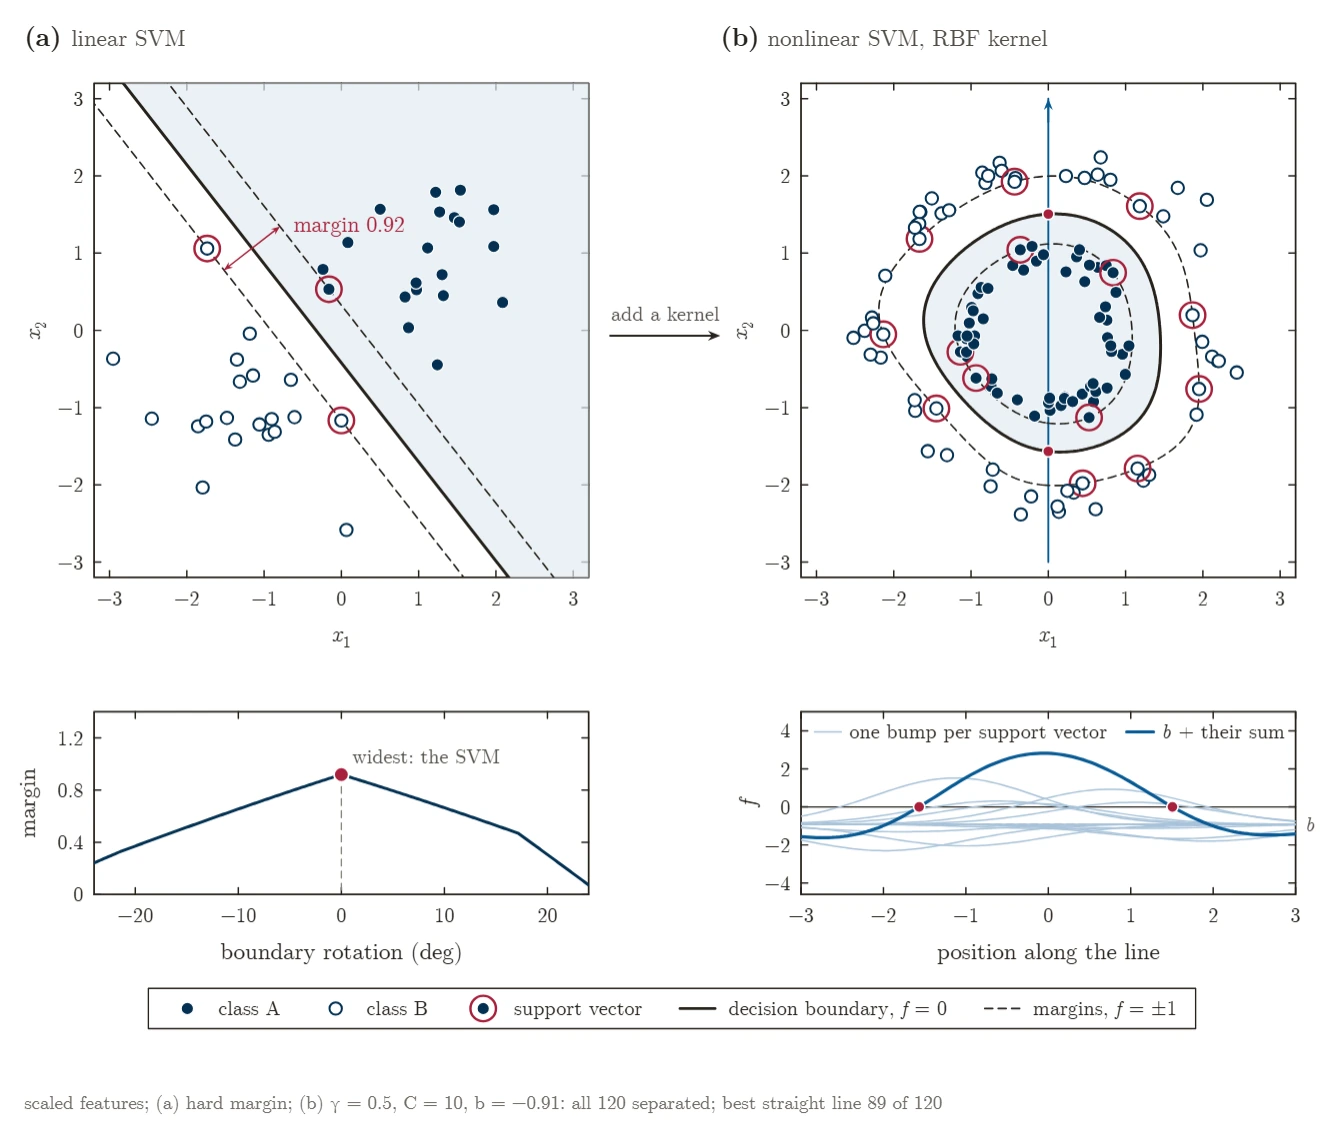
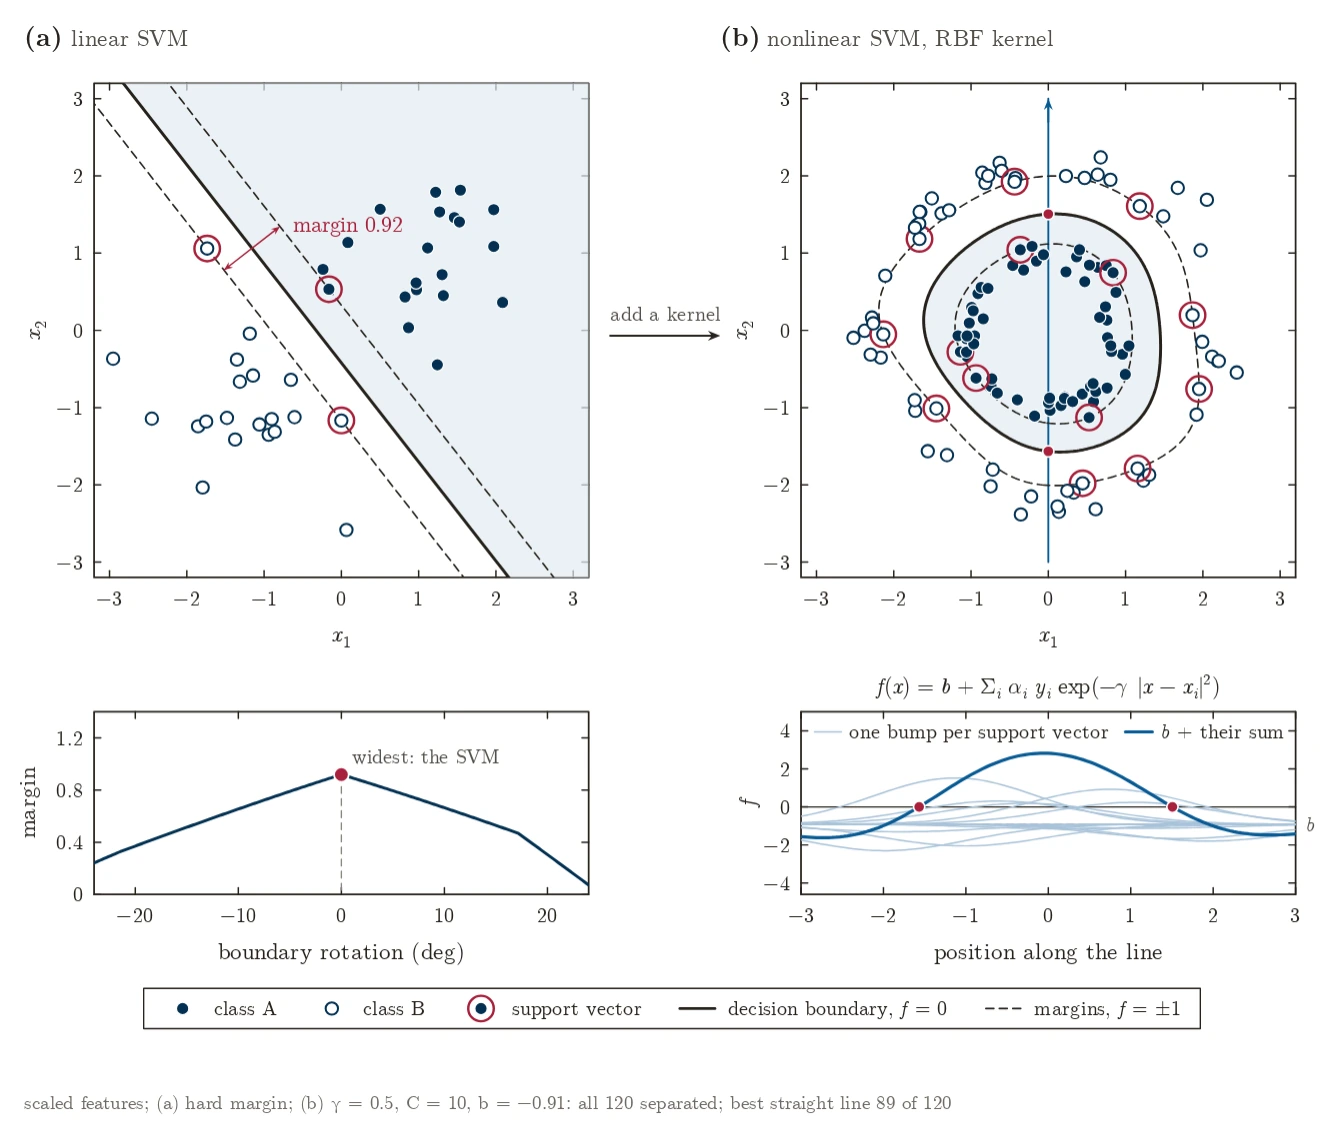
fix: regenerate Figure 13 with its decision function over (b')
The SVM figure's generator (tools/numfig/mla_svm.py) was ahead of its page:
the formula f(x) = b + sum alpha_i y_i exp(-gamma |x - x_i|^2) over the panel
of one bump per support vector, and the 3-D box's label clamp, had not been
written out. The page and its printed frame are regenerated from it; the
overlap check passes up to the poster, and the click into 3-D, the drag and
the best-straight-line arrow work in Chromium without a script error.

Claude-Session: https://claude.ai/code/session_01SQRfPKazL8R4BSZNKNMKJj

diff --git a/content/anim/nf-mla-svm.html b/content/anim/nf-mla-svm.html
@@ -734,7 +734,7 @@ function camera(lam) {
   for (const x of [-1, 1]) for (const y of [-1, 1]) for (const z of [-HZ, 0, top]) {
     const a = x * ca - y * sa, b = (x * sa + y * ca) * se + z * ce;
     if (a > 1e-9) s = Math.min(s, (976 - cx) / a); else if (a < -1e-9) s = Math.min(s, (cx - left) / -a);
-    if (b > 1e-9) s = Math.min(s, (cy - 56) / b); else if (b < -1e-9) s = Math.min(s, (468 - cy) / -b);
+    if (b > 1e-9) s = Math.min(s, (cy - 56) / b); else if (b < -1e-9) s = Math.min(s, (460 - cy) / -b);
   }
   const P = (x, y, z) => {
     const xn = x / LIMX, yn = y / LIMX, zn = z / ZL * HZ, xr = xn * ca - yn * sa, yr = xn * sa + yn * ca;
@@ -1076,6 +1076,9 @@ function drawBp(sl) {
     yticks: [-4, -2, 0, 2, 4], xlabel: '\\rm{position along the line}', ylabel: 'f', ylabelGap: 34,
     progress: seg(.1, .35)});
   const ba = arrive(.55), ca = seg(.3, .45), za = arrive(.85), N = 97;
+  // the decision function the curves below add up, and the surface of the 3-D view is
+  math('f(x) = b + \\Sigma_{i}\\ \\alpha_{i} y_{i}\\ \\rm{exp}(-\\gamma\\, |x - x_{i}|^{2})', PD.x + PD.w / 2, PD.y - 14,
+       {size: 16, align: 'center', alpha: arrive(.8)});
   g.inside(() => {
     line([[PD.x, g.Y(0)], [PD.x + PD.w, g.Y(0)]], {color: C.ink, width: 1, alpha: arrive(.45)});
     line([[PD.x, g.Y(B0)], [PD.x + PD.w, g.Y(B0)]], {color: C.guide, width: 1, dash: [5, 4], alpha: arrive(.45)});
